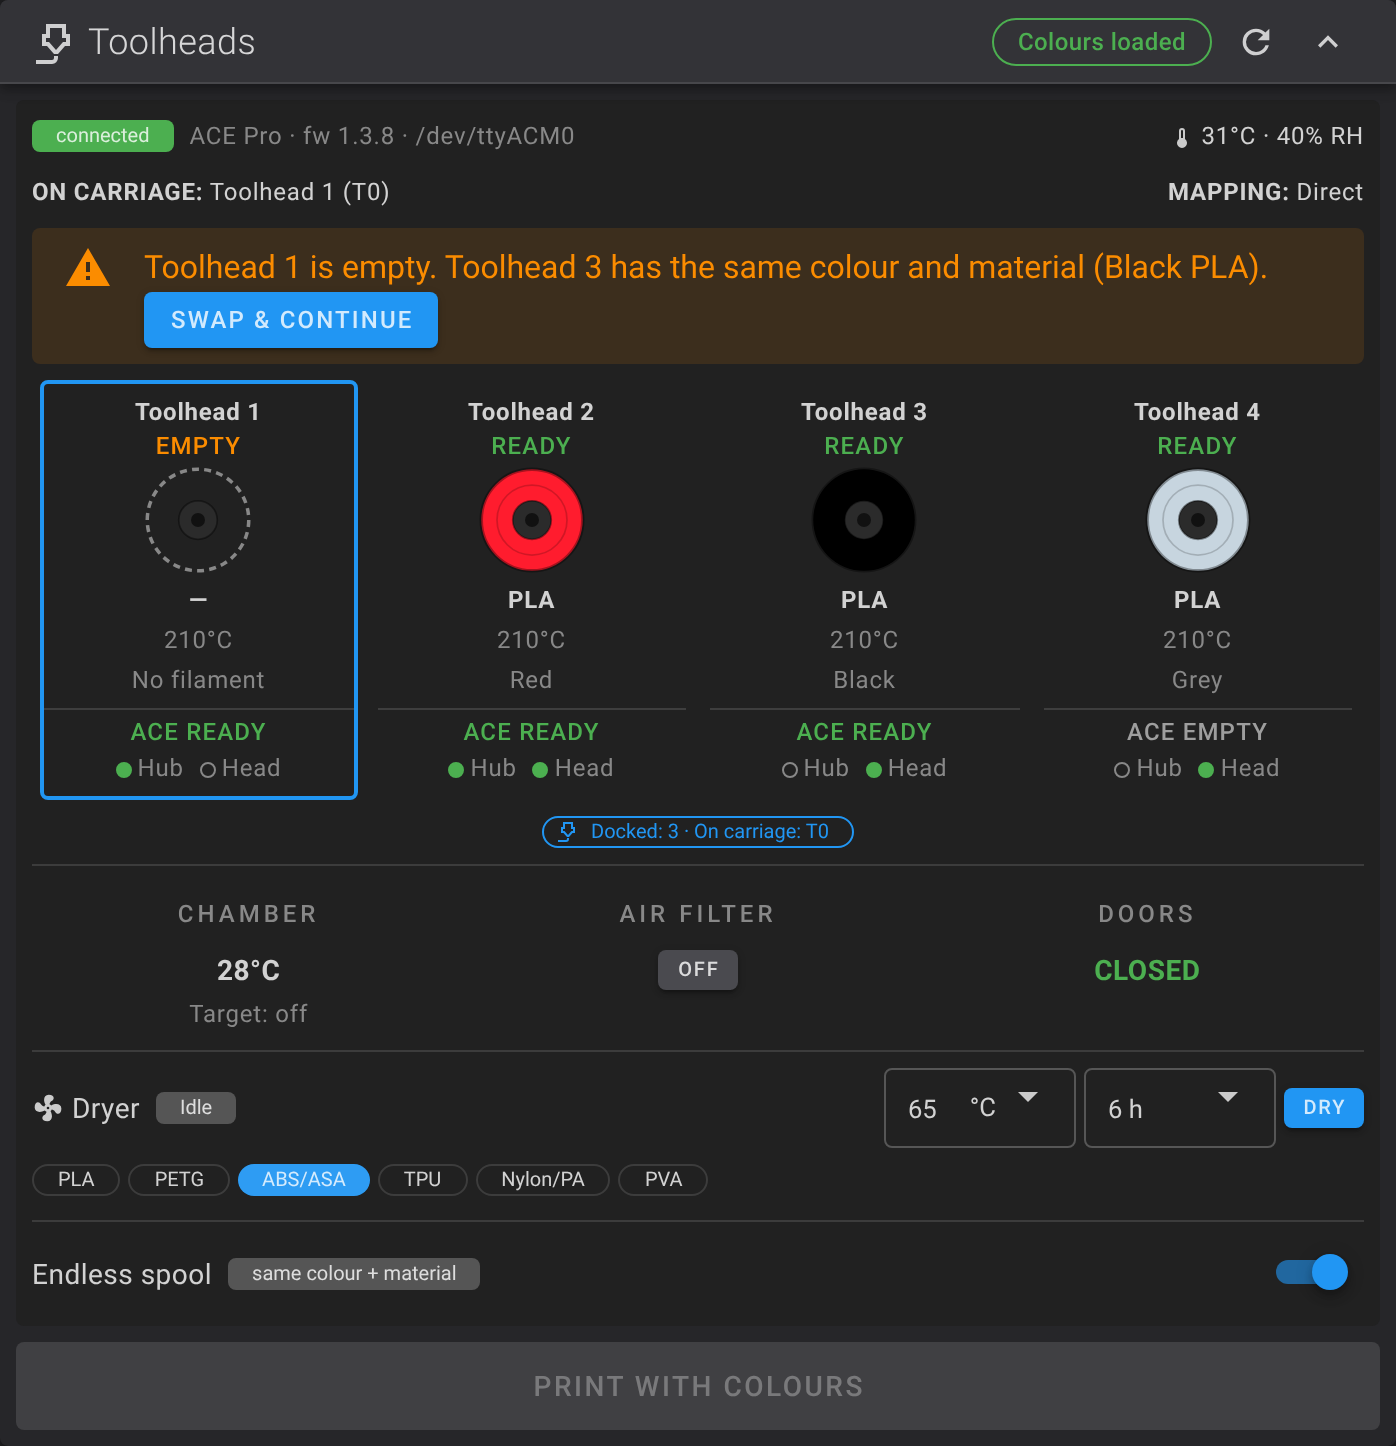
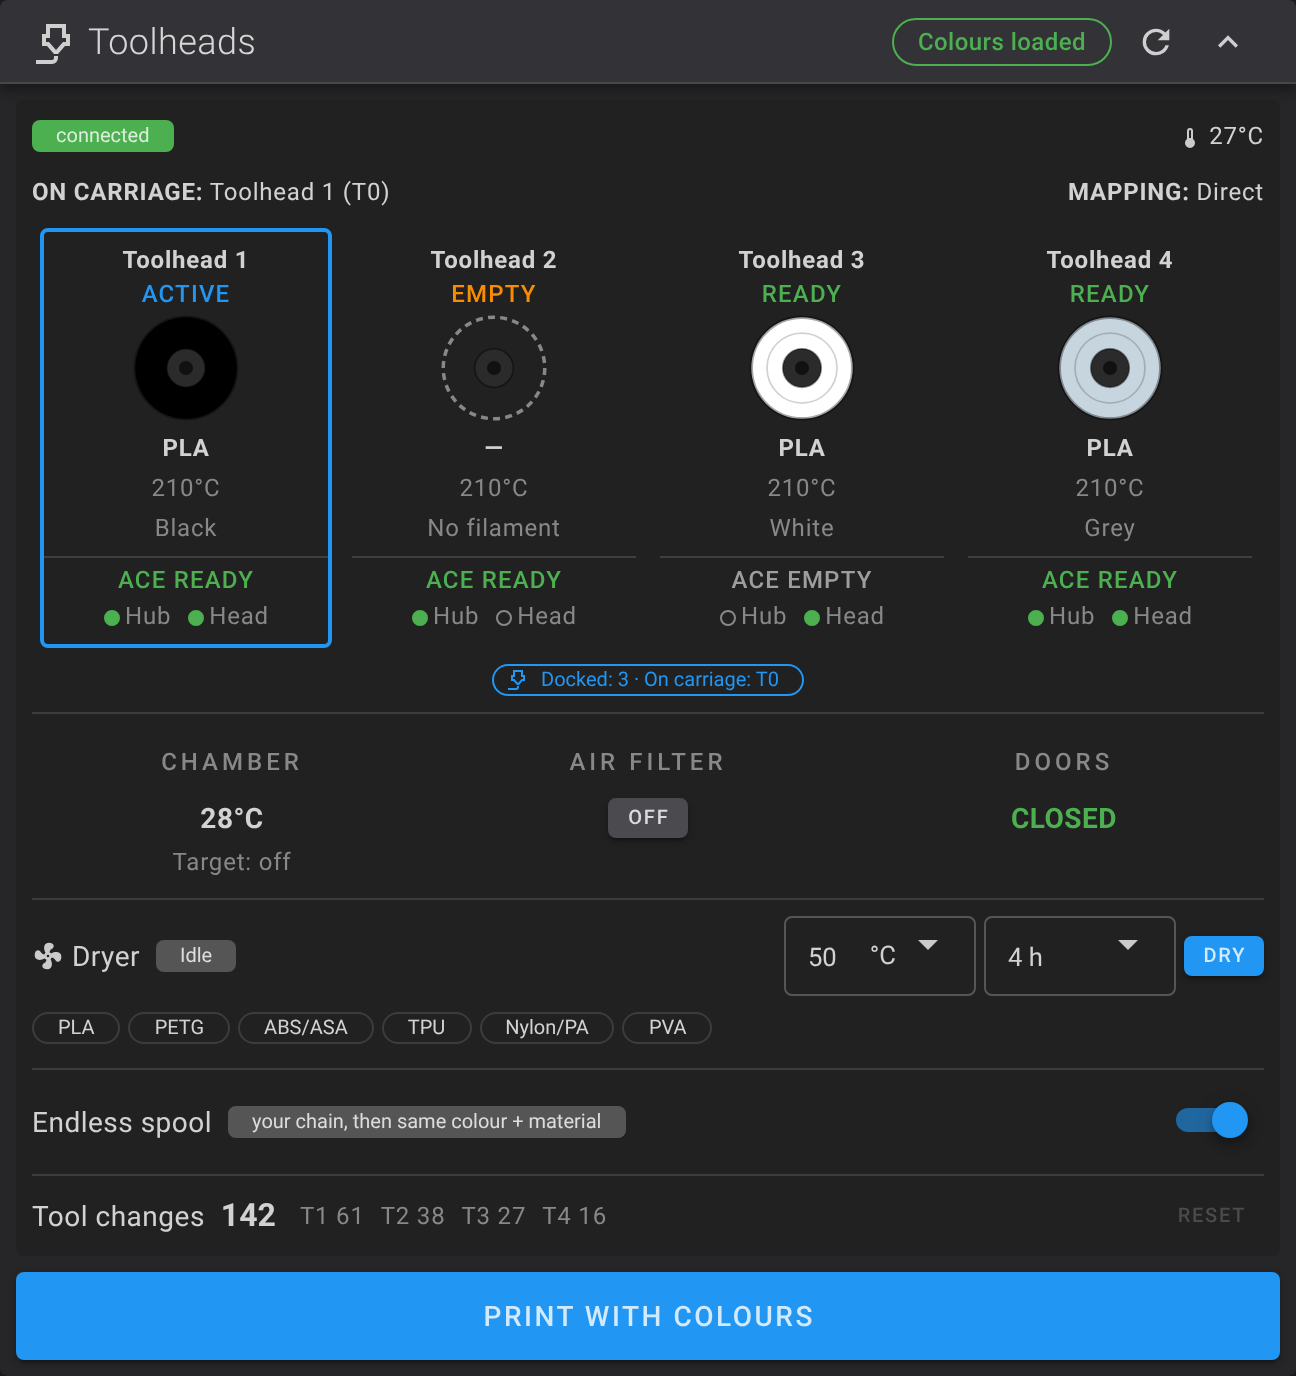
docs: Fluidd screenshots from the 0.3.x panel (endless chain, counters, progress bar)

diff --git a/README.md b/README.md
@@ -257,6 +257,11 @@ Full dashboard without an ACE Pro:
 The Fluidd build from [wm-ultra-fluidd-acepro-panel](https://github.com/ducati1198/wm-ultra-fluidd-acepro-panel) adds the Toolheads card (toolhead status, colours and materials, chamber, air filter, doors, **Print with colours**) and the **Choose toolheads** window at print start, shown only when a colour or material does not match.
 
 ![Toolhead dialog](docs/img/fluidd-toolhead-dialog.png)
+*Toolhead dialog: colour, material, ACE feeder and the endless-spool chain (demo data).*
+
+![Tool change in progress](docs/img/fluidd-tool-change-progress.png)
+*The card shows a progress bar while a tool change runs (demo data).*
+
 ![Choose toolheads](docs/img/fluidd-choose-toolheads.png)
 
 Without an Anycubic ACE Pro the ACE parts stay hidden. If you add one later, use [wm-ultra-fluidd-acepro-panel](https://github.com/ducati1198/wm-ultra-fluidd-acepro-panel).
